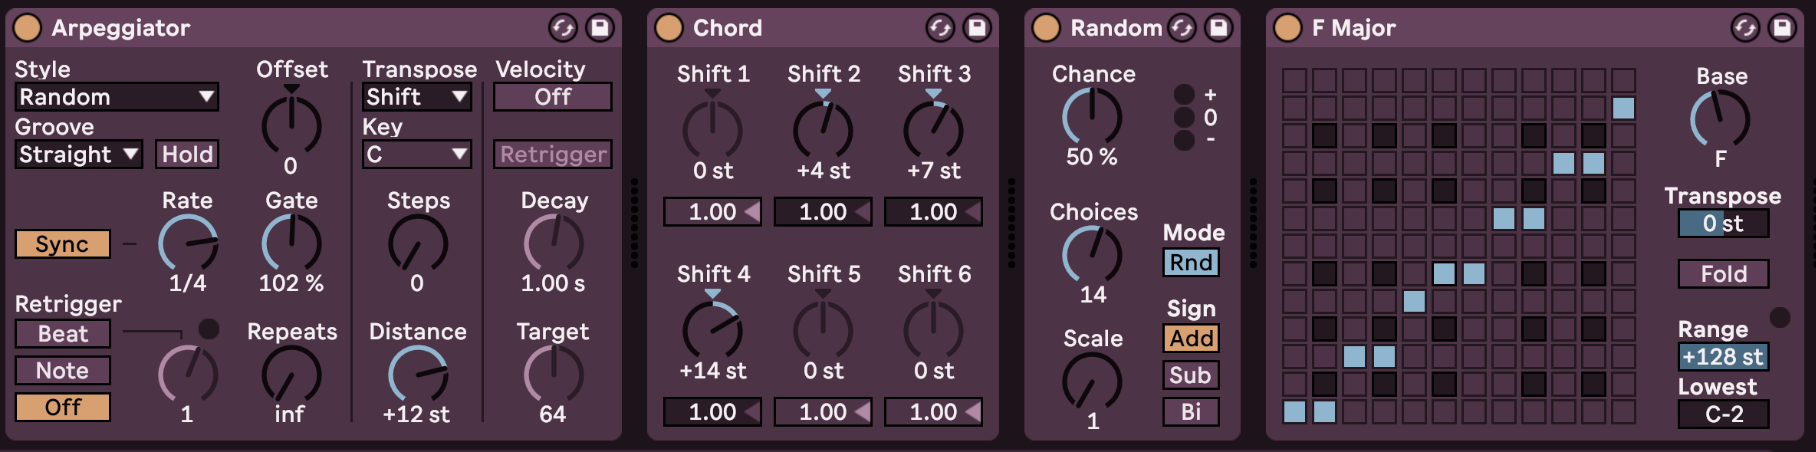
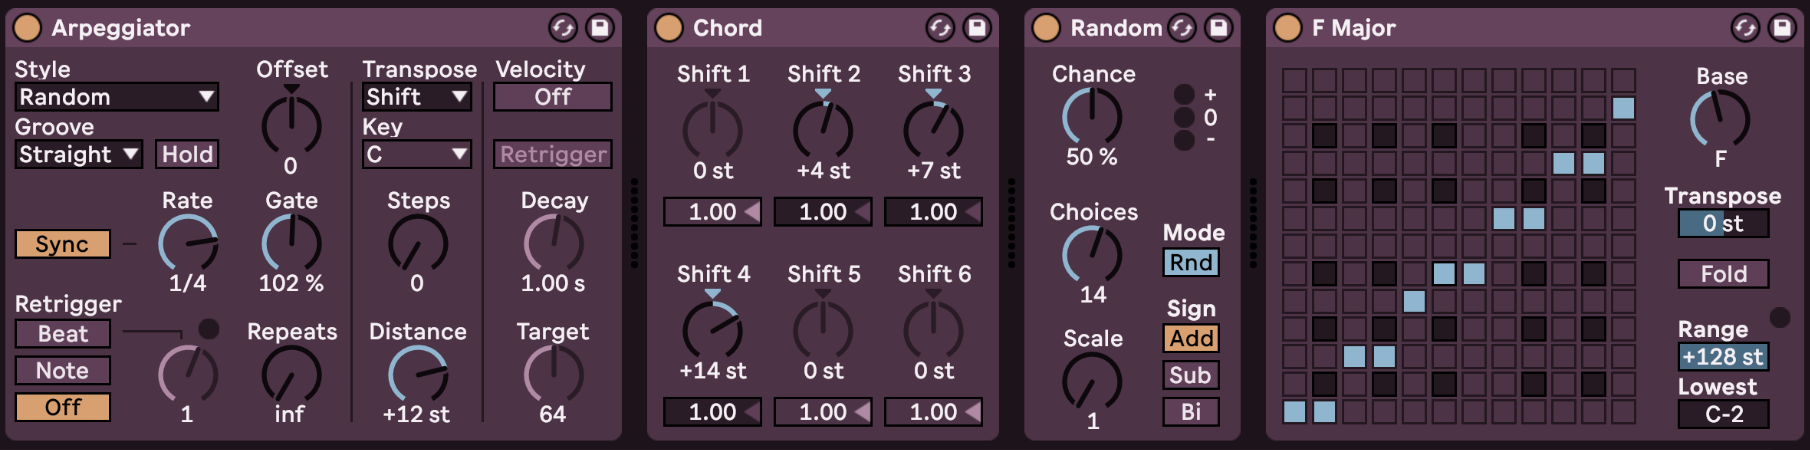
Finish sporadic contemplation post

diff --git a/posts/sporadic-contemplation.md b/posts/sporadic-contemplation.md
@@ -1,44 +1,51 @@
 ---
-title: "Song release: Sporadic Contemplation"
-date: '2021-02-05'
-draft: true
+title: "Track release: Sporadic Contemplation"
+date: '2021-02-12'
 ---
 
-I released a new song, called Sporadic Contemplation!
+I released a new track called Sporadic Contemplation!
 And you can listen to right here:
 
 <iframe style="border: 0; width: 100%; height: 120px;" src="https://bandcamp.com/EmbeddedPlayer/track=3842209562/size=large/bgcol=ffffff/linkcol=7137dc/tracklist=false/artwork=small/transparent=true/" seamless><a href="https://kadiba.bandcamp.com/track/sporadic-contemplation">Sporadic Contemplation by Kadiba</a></iframe>
 
-I created the basis of the tune in one afternoon last year.
-The first part added was the synth parts in the intro.
-I generated the chords using Ableton Live's Arpeggiator, Random, Scale
-and Chord plugins.
+As something new, I experimented with using randomness for generating part of
+the song.
+In particular, I generated the chord sequences for the synth that you hear
+throughout the track.
+If you're interested in how that works, continue reading!
+
+What I wanted was to generate random chords in the key of the song, F major.
+The first thing I added was the **arpeggiator** plugin, which I configured so it
+creates a single random MIDI node at a set interval.
+This note is then sent through the **chord** plugin, which adds additional MIDI
+notes in *fixed* intervals. That is, for any note it receives, it adds notes four,
+seven, and 14 semitones above it. This corresponds to adding a major third, fifth,
+and ninth notes on top.
+With these two plugins configured, I got random major-add9 chords in *any* key.
+
+Next, I added some variation in the *types* of chords, because I did not just
+want major-add9 chords every time.
+I used the **random** plugin to transform each of the four notes from the
+chord plugin into a random note (with a 50% chance of keeping the original note).
+And finally, I used the **scale** plugin to force all four notes into the F
+major scale (by moving them to adjacent notes that fit the key).
+
+And voila! I had a random sequence of interesting chords in F major.
+
+The figure below shows the generative part of the plugin chain along with
+settings for each plugin.
 
 {% figure "/img/sporadic-contemplation/ableton_live_plugins.png" "Generating random chords in the key of F major" %}
-
-This allowed me to generate a large sequence of random chords in the key of
-F-major.
-It works like this:
-- The arpeggiator creates a single MIDI node at a set interval (quarter notes)
-- The chord plugin will then add additional nodes on top of this to create a
-chord (this will always be a major add9 chord with these settings)
-- To vary the type of chords generated, the random plugin takes each of the
-  nodes of the major add9 chord and transforms it into another random node
-  (which might be in another key)
-- Each of these nodes are then forced into the nearest node that fits in the F
-  major scale via the Scale plugin
-- And voila! You get a random sequence of interesting chords in F major
 
 With this setup, I then recorded a long sequence of random chords, listened
 through them and found a good section.
 I edited the section slightly, which was easy to do, as it was MIDI.
-Then I looped the section and I had the basis of my song!
+Then I looped the section and I had the basis of my track!
 
 Next up, I added a drum loop, found some choir vocals on
-[freesound.org](https://www.freesound.org), recorded a guitar solo and then called it a day!
+[freesound.org](https://www.freesound.org), recorded a guitar solo, and then called it a day!
 
-And that's it. Let me know what you think of the tune. Especially the mixing and
-mastering, which is somewhat new territory to me.
+And that's it. Let me know what you think of the tune.
 
 Until next time,
 - Kasper
